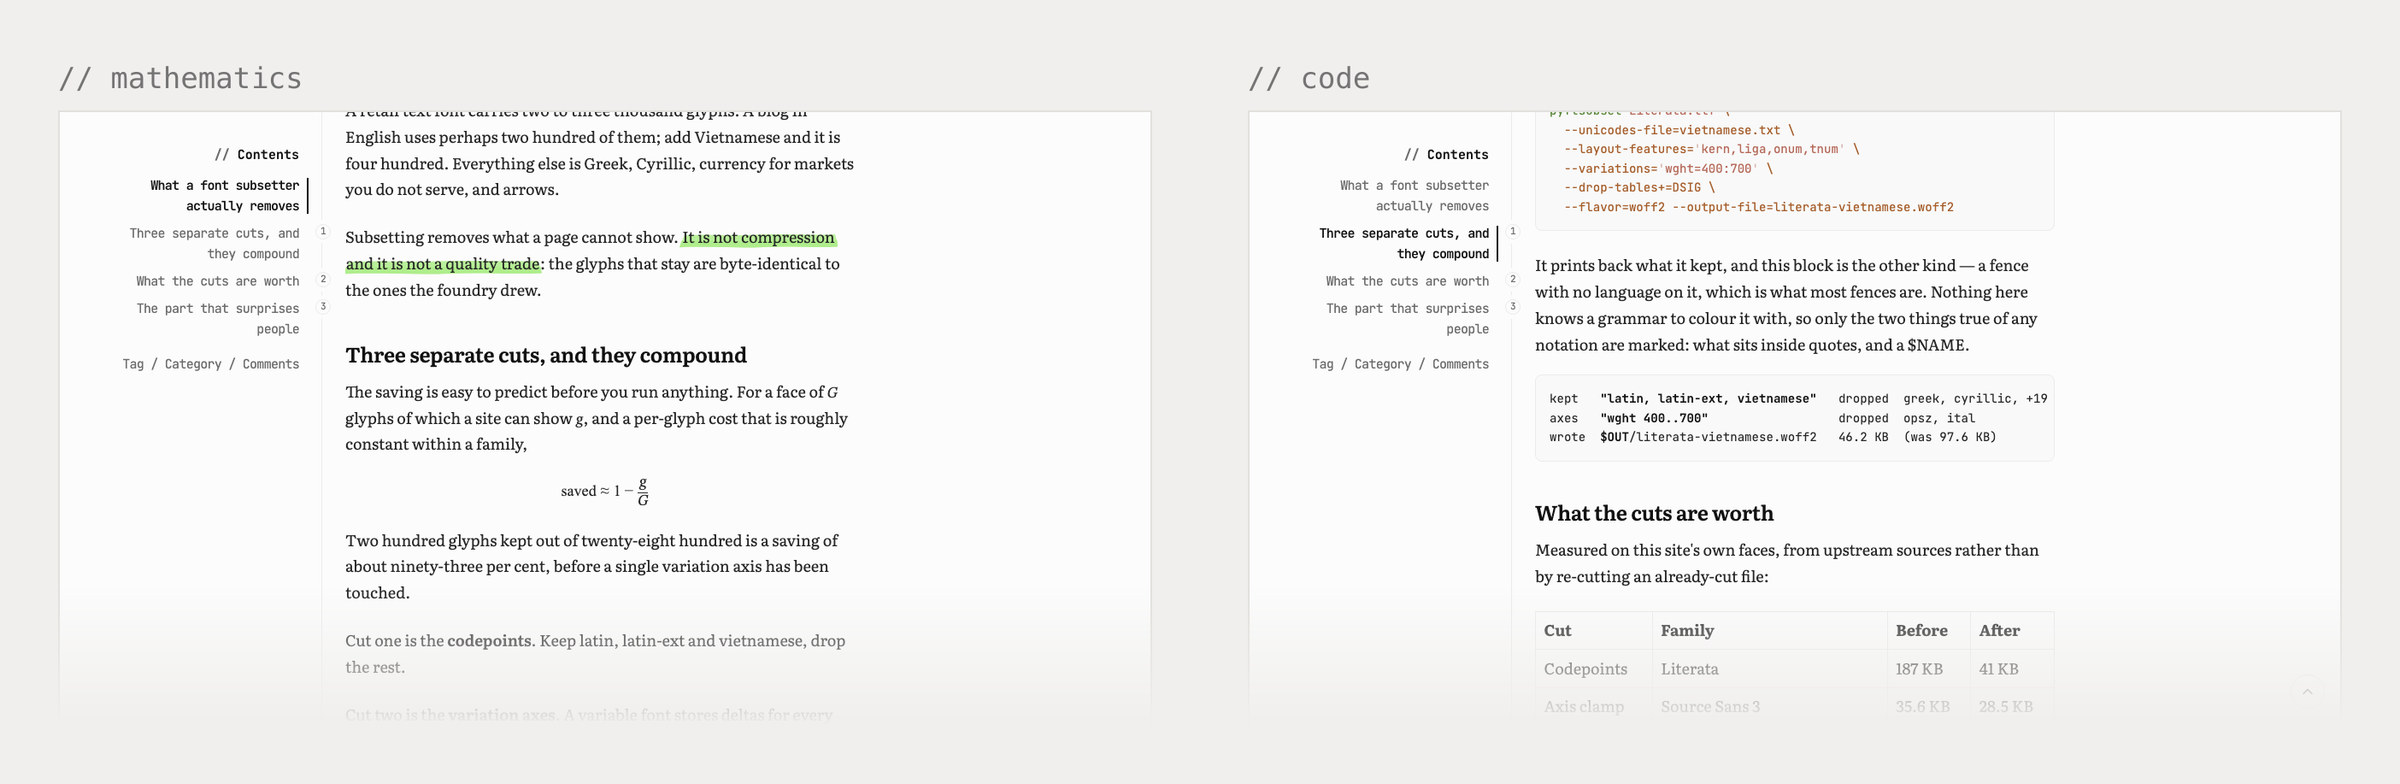
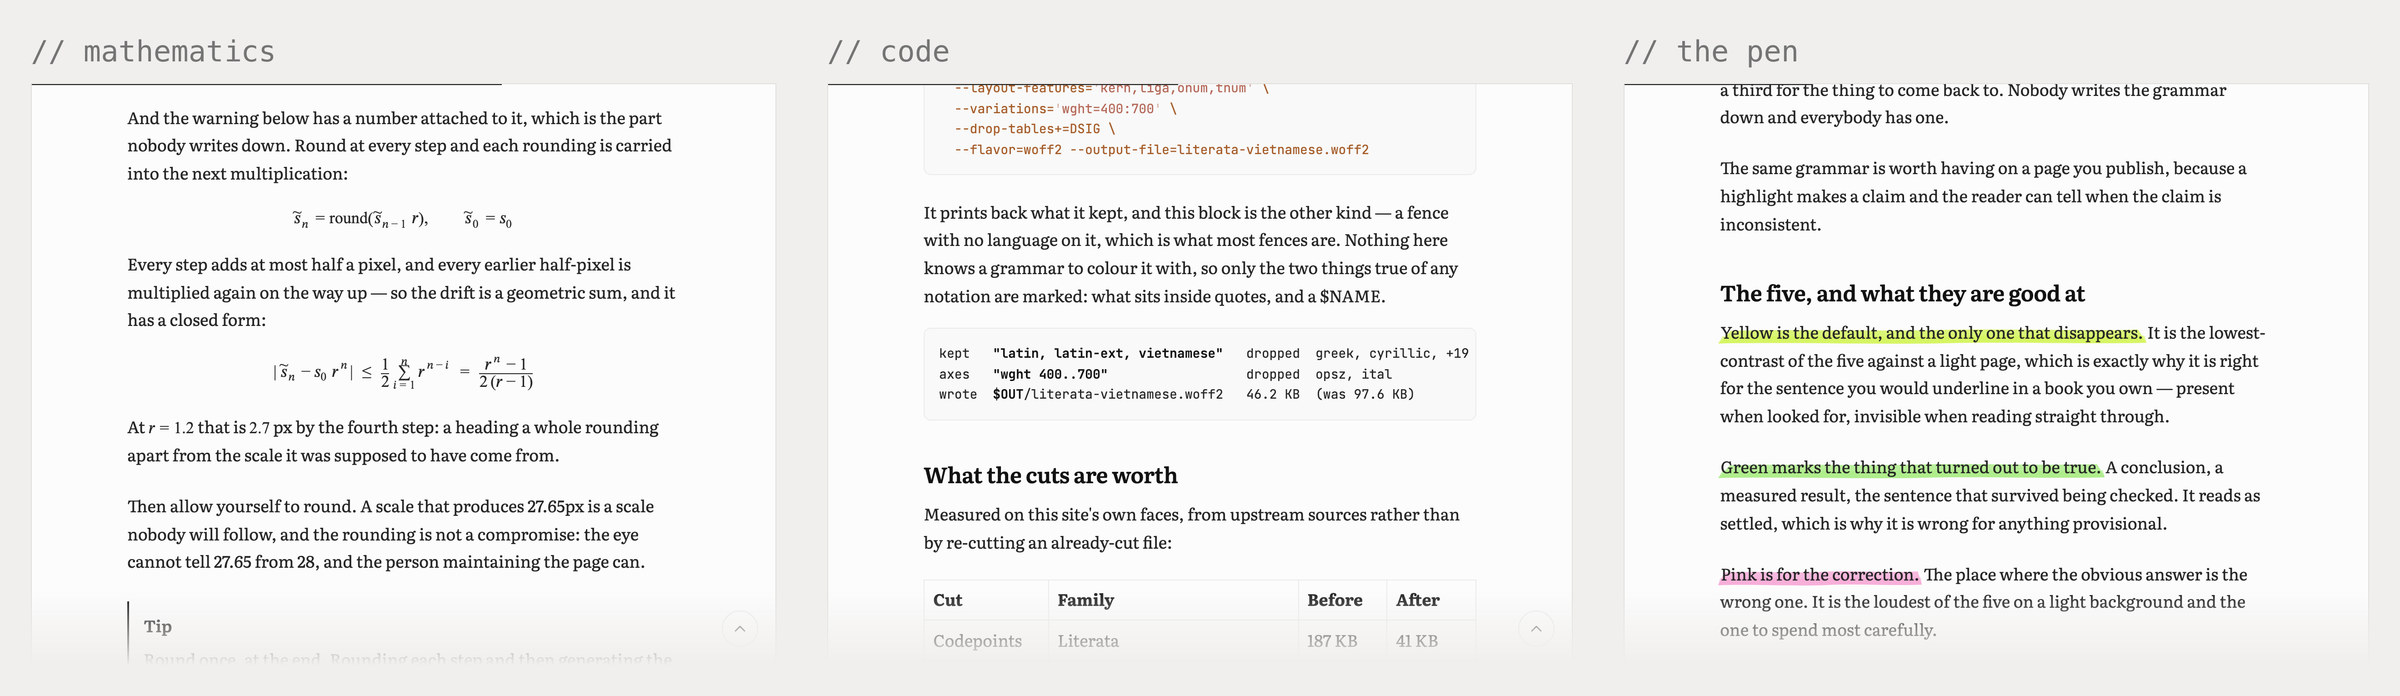
The plate was a screenshot taken from across the room, of a formula worth nothing
Three things, and the last one is a mistake I made twice in one session.

THE MATHS WAS TRIVIAL. `s_n = s_0 r^n` demonstrates nothing a browser could not
have drawn in 1998. The post already carried a warning with no number attached
to it -- round at every step and "by the fourth step the scale is no longer the
ratio you chose" -- so the formula that belongs there is the bound on that
drift: each rounding costs at most half a pixel, every earlier half-pixel is
multiplied again on the way up, and the result is a geometric sum with a closed
form. At r = 1.2 it comes to 2.7px by the fourth step, which is the sentence
that was already in the post. Rich AND true, rather than rich.

THE PANELS WERE SHOT AT 1x AND 1280 WIDE. `compose-demo.ts` composes at 2x and
resizes the plate down at the end, so a 1x panel goes through that halving too
-- and at 1280 the reading column is 672px in the middle of the frame with a
rail beside it, so the subject was a third of the picture twice over. 820 and
2x: the rails drop, the column fills the frame, and the prose around the formula
is still there, which is the point of showing it in a page at all.

The pen gets a panel of its own, on the same terms.

ONE LINE PER PARAGRAPH -- `seed-content.ts` says so in its own header, because
the renderer turns a single newline into a <br>. I wrapped four paragraphs and
shipped them, having fixed exactly this an hour earlier in the same file. The
[…]

diff --git a/scripts/seed-content-type.ts b/scripts/seed-content-type.ts
@@ -185,6 +185,20 @@ where $s_0$ is the body size, $r$ the ratio and $n$ the number of steps away fro
 | +2 | 24 px | 30 px |
 | +3 | 29 px | 40 px |
 
+Solving it the other way round is the useful direction. Given a body size and the largest size the page actually needs, $k$ steps above it, the ratio is not a matter of taste at all:
+
+$$r = \\sqrt[k]{\\frac{s_k}{s_0}}$$
+
+And the warning below has a number attached to it, which is the part nobody writes down. Round at every step and each rounding is carried into the next multiplication:
+
+$$\\tilde{s}_n = \\operatorname{round}\\!\\left(\\tilde{s}_{n-1}\\, r\\right), \\qquad \\tilde{s}_0 = s_0$$
+
+Every step adds at most half a pixel, and every earlier half-pixel is multiplied again on the way up — so the drift is a geometric sum, and it has a closed form:
+
+$$\\left|\\, \\tilde{s}_n - s_0\\, r^{\\,n} \\right| \\;\\le\\; \\frac{1}{2} \\sum_{i=1}^{n} r^{\\,n-i} \\;=\\; \\frac{r^{\\,n} - 1}{2\\,(r - 1)}$$
+
+At $r = 1.2$ that is $2.7$ px by the fourth step: a heading a whole rounding apart from the scale it was supposed to have come from.
+
 Then allow yourself to round. A scale that produces 27.65px is a scale nobody will follow, and the rounding is not a compromise: the eye cannot tell 27.65 from 28, and the person maintaining the page can.
 
 > [!TIP]

diff --git a/README.vi.md b/README.vi.md
@@ -89,9 +89,9 @@ Bạn được đọc, sửa, chạy và fork theo [PolyForm Noncommercial](./LI
 
 <sub>Chế độ sách và giao diện tối. Không cái nào là một lớp lọc phủ lên trang. Cả hai đều là chính hệ typography của trang đọc. Font đi kèm có sẵn dấu tiếng Việt và dấu của các tiếng Trung Âu, nên khối mẫu chữ bên trái hiện đúng font chứ không rơi về font hệ thống.</sub>
 
-<img src="docs/demo-code.jpg" alt="Hai ảnh chụp: một bài viết có công thức được dựng bằng MathML trong font đọc, và phần code của chính bài đó, một khối được tô màu nhờ tên ngôn ngữ và một khối bên dưới không ghi ngôn ngữ, chỉ đánh dấu phần trong ngoặc kép và tên biến có dấu đô la" width="960">
+<img src="docs/demo-code.jpg" alt="Ba ảnh chụp: một công thức chặn trên độ trôi của thang chữ sau khi làm tròn, dựng bằng MathML trong font đọc; phần code của cùng site, một khối được tô màu nhờ tên ngôn ngữ và một khối bên dưới không ghi ngôn ngữ, chỉ đánh dấu phần trong ngoặc kép và tên biến có dấu đô la; và ba vệt bút dạ vàng, xanh, hồng" width="960">
 
-<sub>Công thức toán là MathML, do chính trình duyệt dựng — không script, không stylesheet, không file font, nên một bài có công thức không tốn thêm gì so với bài không có. Code cũng tô màu ở máy chủ, cùng một lý do. Khối phía dưới không ghi ngôn ngữ: không đoán ra nên không bịa màu, chỉ đánh dấu những gì đúng trong mọi ký pháp.</sub>
+<sub>Công thức toán là MathML, do chính trình duyệt dựng — không script, không stylesheet, không file font, nên một bài có công thức không tốn thêm gì so với bài không có. Code cũng tô màu ở máy chủ, cùng một lý do; khối phía dưới không ghi ngôn ngữ nên không ai bịa màu cho nó, chỉ đánh dấu những gì đúng trong mọi ký pháp. Bút dạ là nét SVG ngắt theo từng dòng, có năm màu mực.</sub>
 
 </div>
 

diff --git a/README.md b/README.md
@@ -88,9 +88,9 @@ You can read, change, run and fork it under [PolyForm Noncommercial](./LICENSE).
 
 <sub>Book mode and the dark theme. Neither is a filter dropped over the page. Both are the reading typography itself. The fonts ship with Vietnamese and Central European accents included, so the specimen on the left is set properly instead of falling back to whatever the system has.</sub>
 
-<img src="docs/demo-code.jpg" alt="Two screenshots: an article showing a formula rendered as MathML in the reading face, and the same article's code, one block highlighted from its language tag and one below it with no language, where only the quoted text and a dollar-name are marked" width="960">
+<img src="docs/demo-code.jpg" alt="Three screenshots: a formula bounding the drift of a rounded type scale, rendered as MathML in the reading face; the same site's code, one block highlighted from its language tag and one below it with no language where only the quoted text and a dollar-name are marked; and three highlighter strokes in yellow, green and pink" width="960">
 
-<sub>Mathematics is MathML, drawn by the browser's own layout engine — no script, no stylesheet, no font file, so a post with a formula costs a reader nothing over one without. Code is highlighted on the server for the same reason. The lower block named no language: nothing guessed one, so nothing invented colours for it, and only what is true of any notation is marked.</sub>
+<sub>Mathematics is MathML, drawn by the browser's own layout engine — no script, no stylesheet, no font file, so a post with a formula costs a reader nothing over one without. Code is highlighted on the server for the same reason; the lower block named no language, so nothing invented colours for it and only what is true of any notation is marked. The pen is an SVG stroke that breaks per line, in five inks.</sub>
 
 </div>
 
